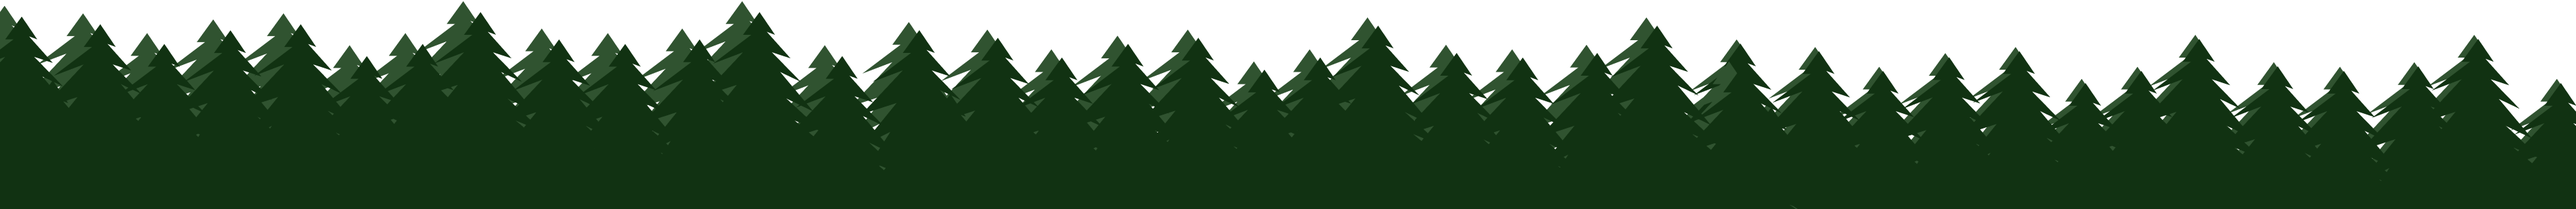
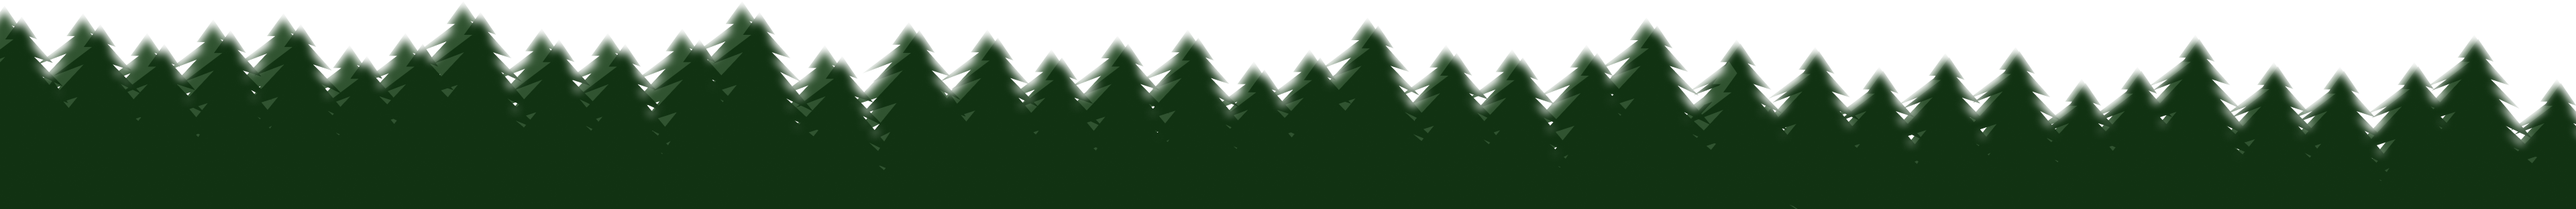
added background imaging

Changed region(s): [[0.0, 0.0288, 1.0, 0.6923]]

diff --git a/src/Components/pages/Driving.js b/src/Components/pages/Driving.js
@@ -43,24 +43,28 @@ const Driving = ({ navigation }) => {
             <ImageBackground source={require("../../../assets/ecoBackground.png")} style={styles.container}>
                 <Image source={require("../../../assets/ecoVehicle.png")} style={styles.title} />
 
-                <Text style={styles.buttonText}>Year:</Text>
-                <TextInput style={styles.input} value={year} onChangeText={setYear} />
+                <View style={{ marginTop: -50, flex: 1, alignItems: 'center' }}>
+                    <Text style={styles.buttonText}>Year:</Text>
+                    <TextInput style={styles.input} value={year} onChangeText={setYear} />
 
-                <Text style={styles.buttonText}>Make:</Text>
-                <TextInput style={styles.input} value={make} onChangeText={setMake} />
+                    <Text style={styles.buttonText}>Make:</Text>
+                    <TextInput style={styles.input} value={make} onChangeText={setMake} />
 
-                <Text style={styles.buttonText}>Model:</Text>
-                <TextInput style={styles.input} value={model} onChangeText={setModel} />
+                    <Text style={styles.buttonText}>Model:</Text>
+                    <TextInput style={styles.input} value={model} onChangeText={setModel} />
 
-                <Text style={styles.buttonText}>Average Speed:</Text>
-                <TextInput style={styles.input} value={avgSpeed} onChangeText={setAvgSpeed} />
+                    <Text style={styles.buttonText}>Average Speed:</Text>
+                    <TextInput style={styles.input} value={avgSpeed} onChangeText={setAvgSpeed} />
 
-                <View style={styles.button}>
-                    <Button title="Submit" onPress={handleSubmit} color="transparent" />
+                    <View style={styles.button}>
+                        <Button title="Submit" onPress={handleSubmit} color="transparent" />
+                    </View>
+                    <View style={styles.button}>
+                        <Button title="Clear" onPress={handleClear} color="transparent" />
+                    </View>
                 </View>
-                <View style={styles.button}>
-                    <Button title="Clear" onPress={handleClear} color="transparent" />
-                </View>
+
+                <Image source={require("../../../assets/ecoTrees.png")} style={{ position: 'absolute', bottom: -40, width: '100%', height: 160 }} />
             </ImageBackground>
             <Footer style={{ height: 18 }} navigation={navigation} />
         </View>

diff --git a/src/Components/pages/TrackNav.js b/src/Components/pages/TrackNav.js
@@ -1,5 +1,5 @@
 import React from 'react';
-import { View, Text, TouchableOpacity, ImageBackground, StyleSheet } from 'react-native';
+import { View, Text, TouchableOpacity, Image, ImageBackground, StyleSheet } from 'react-native';
 import { createStackNavigator } from '@react-navigation/stack';
 import Driving from '../pages/Driving';
 import Energy from '../pages/Energy';
@@ -31,6 +31,7 @@ function TrackOptions({ navigation }) {
                         <Text style={styles.buttonText}>Exercise</Text>
                     </TouchableOpacity>
                 </View>
+                <Image source={require("../../../assets/ecoTrees.png")} style={{ position: 'absolute', bottom: -40, width: '100%', height: 160 }} />
             </ImageBackground>
             <Footer navigation={navigation} />
         </View>

diff --git a/src/Components/pages/Exercise.js b/src/Components/pages/Exercise.js
@@ -55,6 +55,7 @@ const Exercise = ({ navigation }) => {
                 <View style={styles.button}>
                     <Button title="Clear" onPress={handleClear} color="transparent" />
                 </View>
+                <Image source={require("../../../assets/ecoTrees.png")} style={{ position: 'absolute', bottom: -40, width: '100%', height: 160 }} />
             </ImageBackground>
             <Footer style={{ height: 18 }} navigation={navigation} />
         </View>

diff --git a/src/Components/pages/Energy.js b/src/Components/pages/Energy.js
@@ -55,6 +55,7 @@ const Energy = ({ navigation }) => {
                 <View style={styles.button}>
                     <Button title="Clear" onPress={handleClear} color="transparent" />
                 </View>
+                <Image source={require("../../../assets/ecoTrees.png")} style={{ position: 'absolute', bottom: -40, width: '100%', height: 160 }} />
             </ImageBackground>
             <Footer style={{ height: 18 }} navigation={navigation} />
         </View>

diff --git a/src/Components/pages/Diet.js b/src/Components/pages/Diet.js
@@ -49,6 +49,7 @@ const Diet = ({ navigation }) => {
                 <View style={styles.button}>
                     <Button title="Clear" onPress={handleClear} color="transparent" />
                 </View>
+                <Image source={require("../../../assets/ecoTrees.png")} style={{ position: 'absolute', bottom: -40, width: '100%', height: 160 }} />
             </ImageBackground>
             <Footer style={{ height: 18 }} navigation={navigation} />
         </View>
